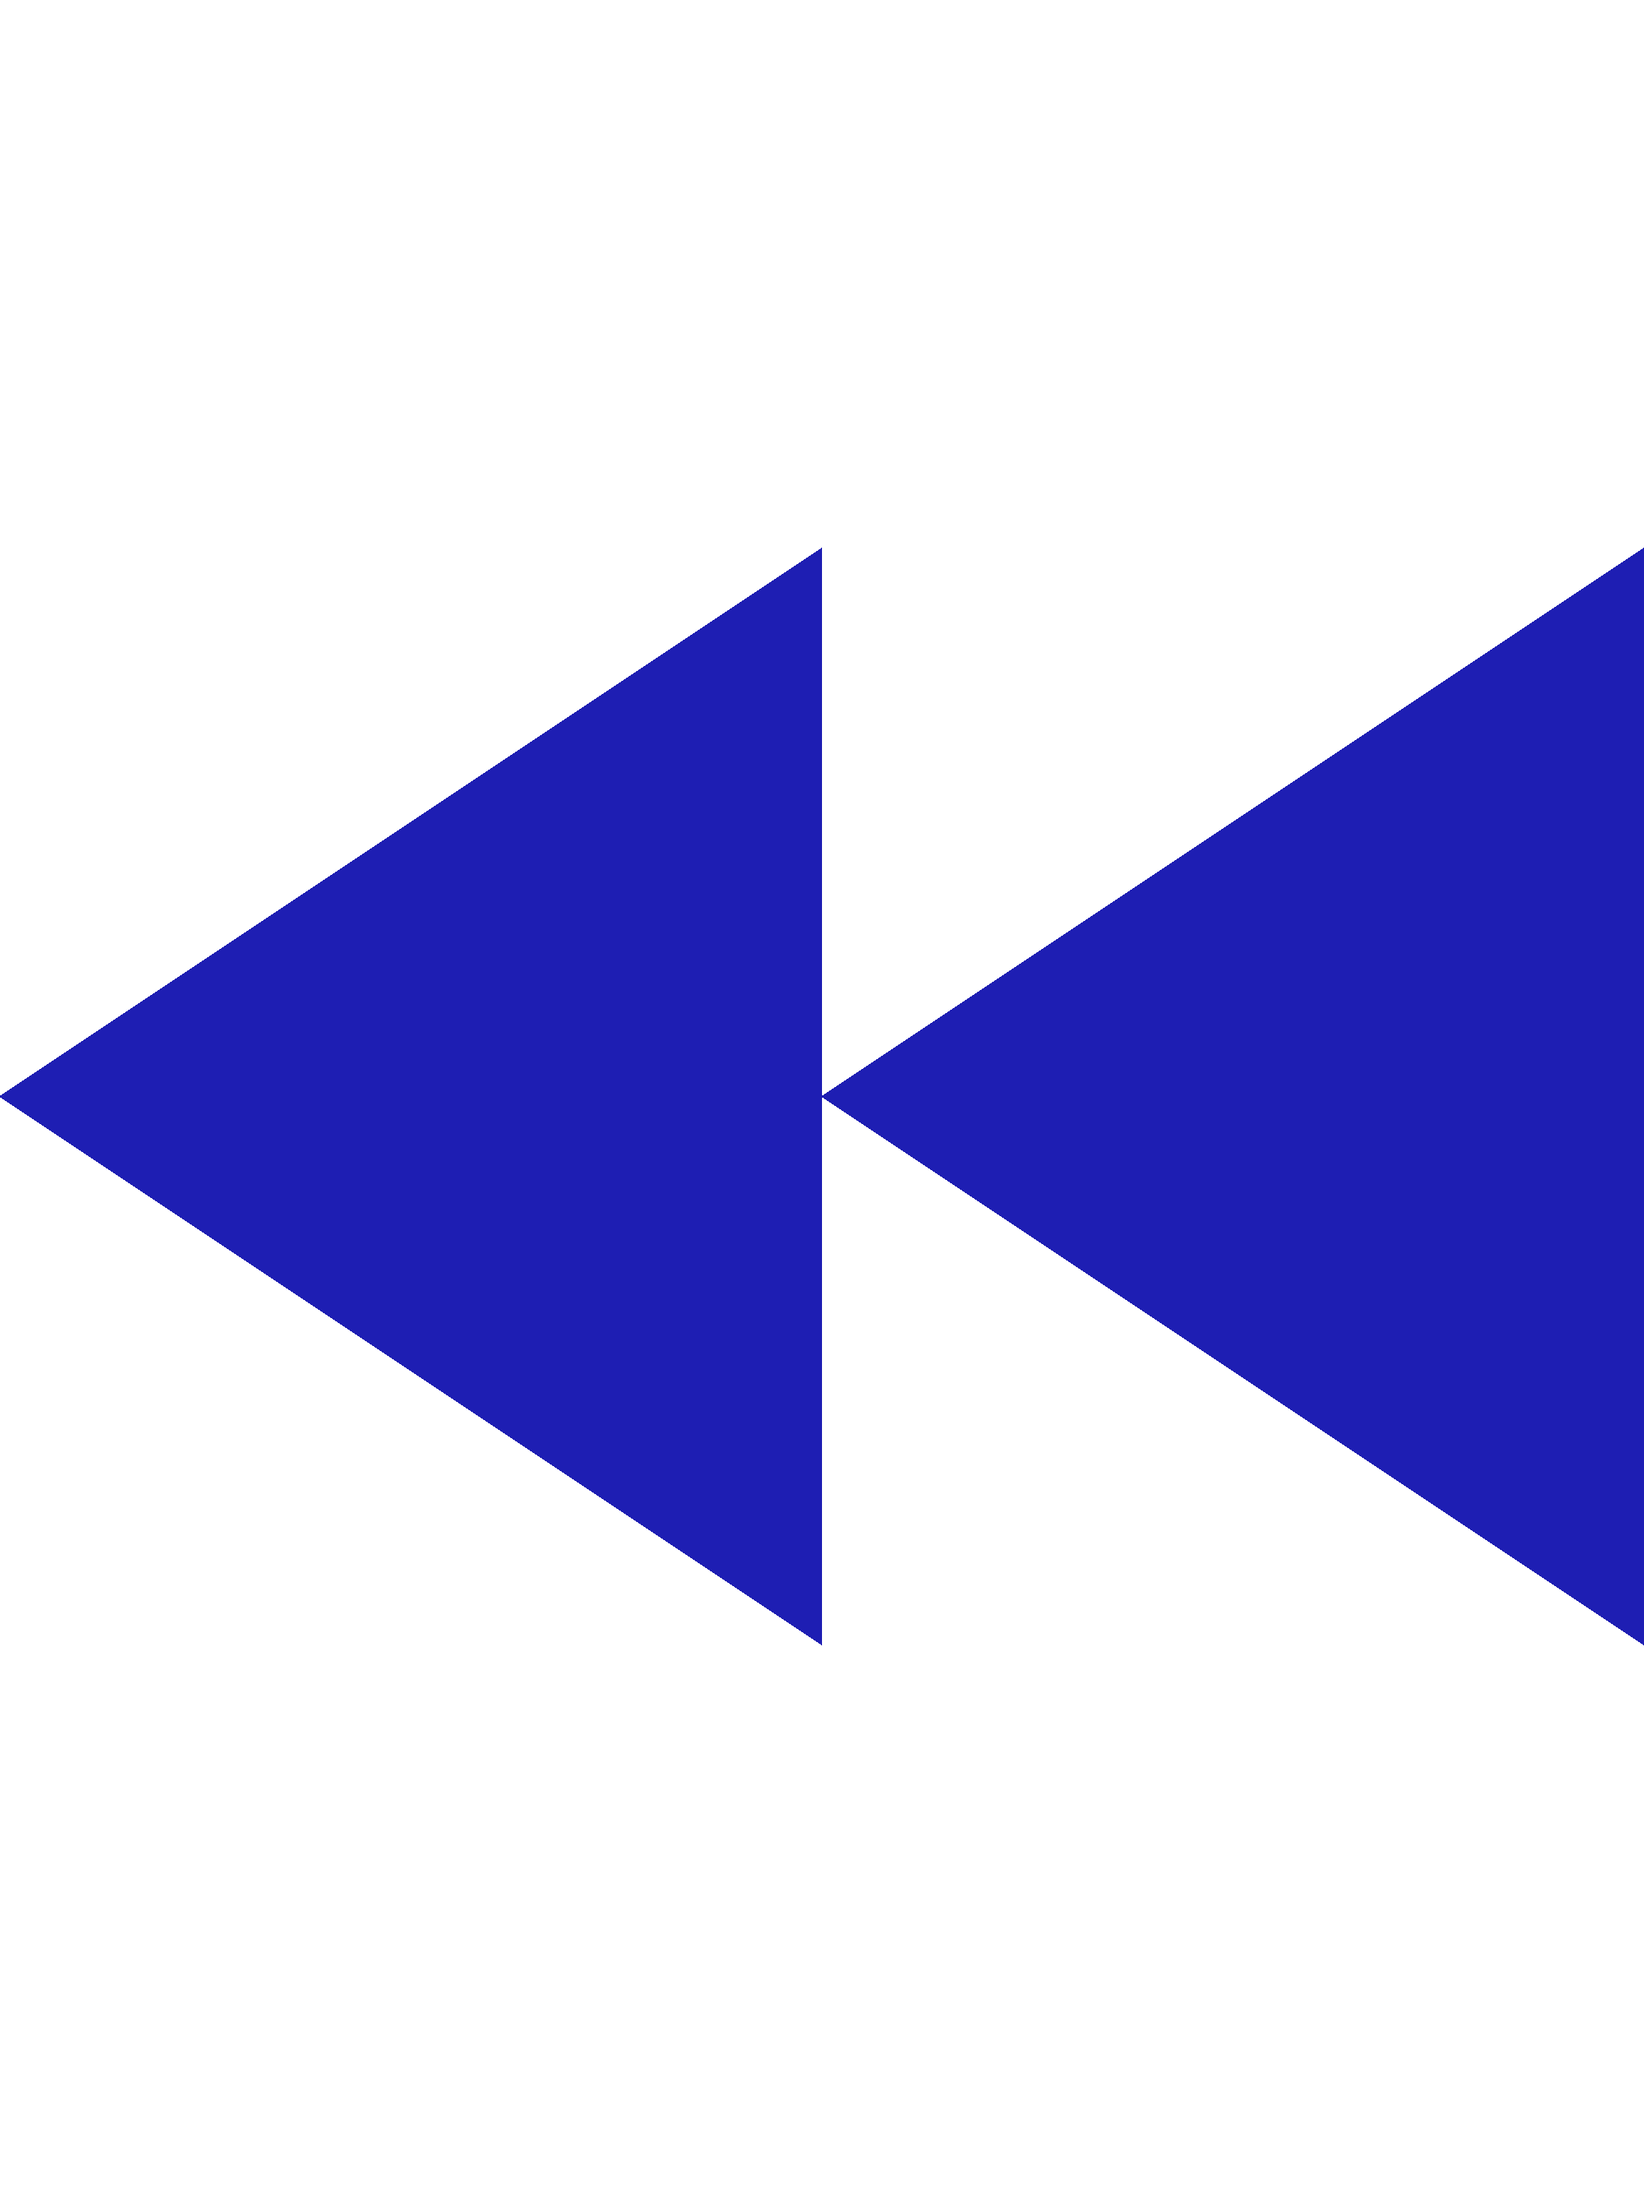
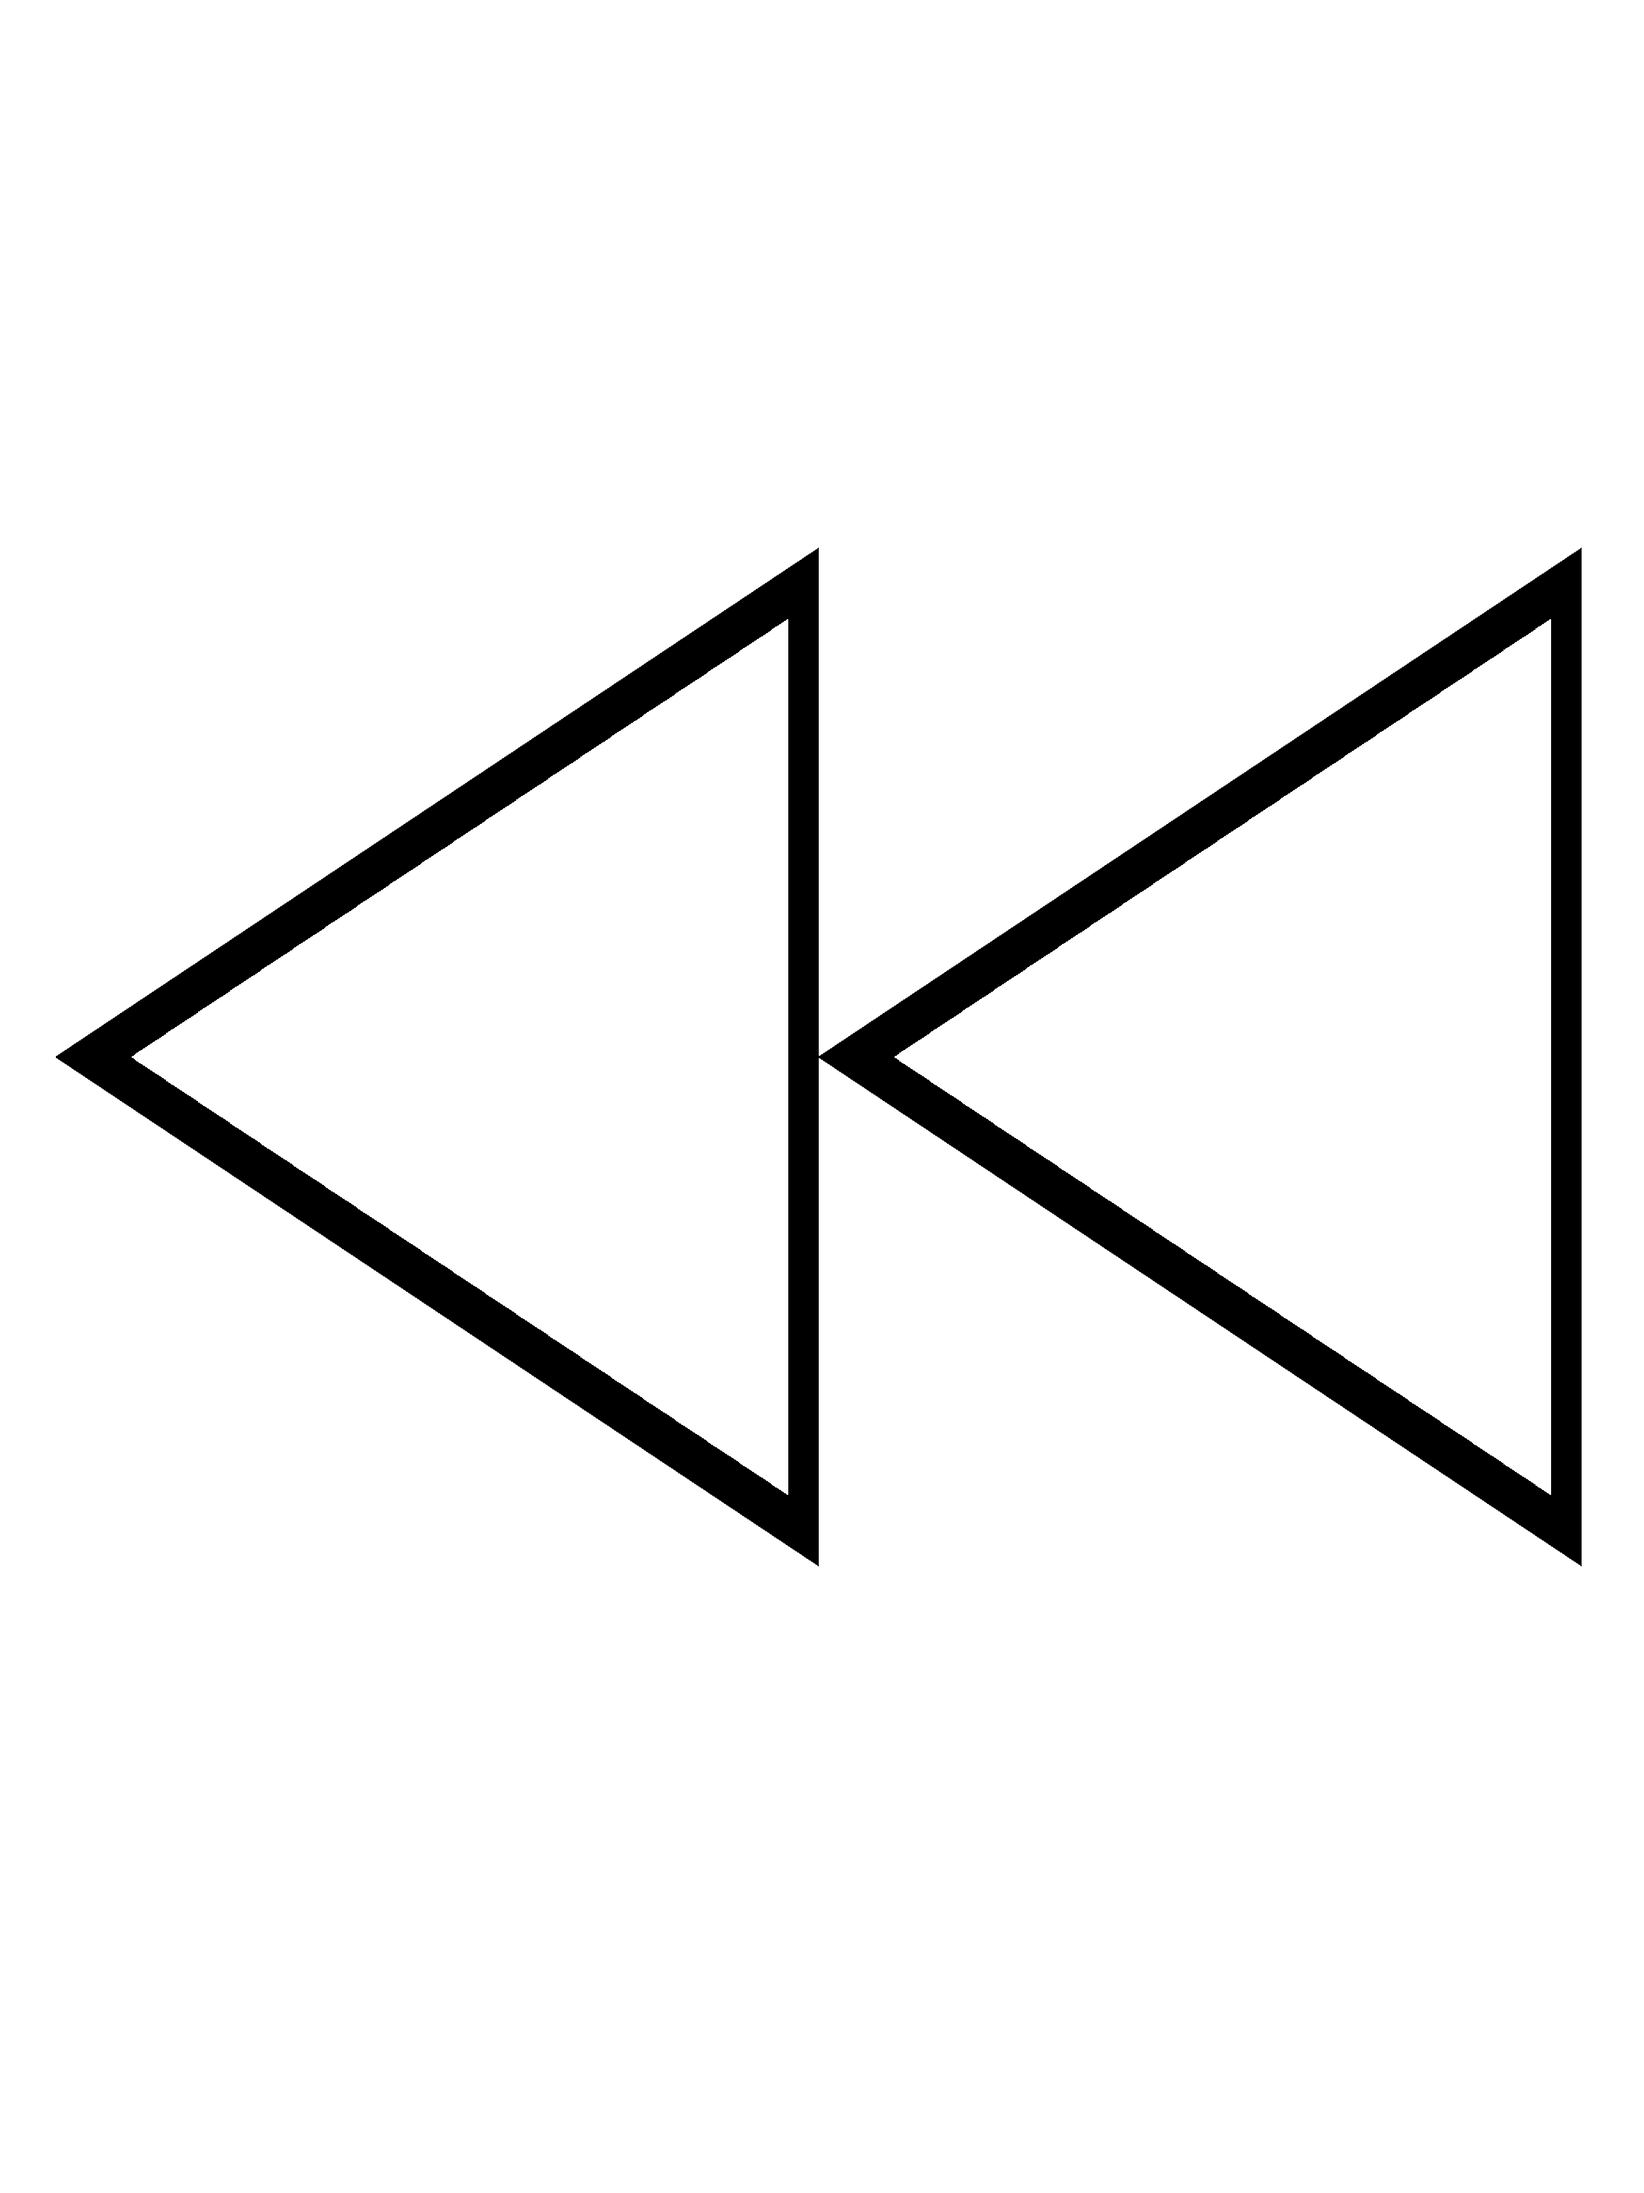
FastForward animation, colored/moved some UI elements

Changed region(s): [[0.0, 0.249, 1.0, 0.7469]]

diff --git a/ChronoLoop/ChronoLoop/Actions/CCEnterLevel.h b/ChronoLoop/ChronoLoop/Actions/CCEnterLevel.h
@@ -58,11 +58,13 @@ namespace Epoch
 					Messager::Instance().SendInMessage(new Message(msgTypes::mSound, soundMsg::ADD_Emitter, 0, false, (void*)new m_Emitter(ambient, "ambiance")));
 
 					//new stuff
-					Transform identity;
-					BaseObject* RightController = Pool::Instance()->iGetObject()->Reset("Controller1 - 0", identity);// new BaseObject("Controller", identity);
-					BaseObject* LeftController = Pool::Instance()->iGetObject()->Reset("Controller2 - 0", identity); //new BaseObject("Controller2", identity);
-					BaseObject* headset = Pool::Instance()->iGetObject()->Reset("Headset - 0", identity); //new BaseObject("headset", transform);
+					Transform identity, t;
+					t.SetMatrix(matrix4::CreateXRotation(DirectX::XM_PI / 2) * matrix4::CreateTranslation(8.8f, 1.3f, -4.75f));
+					BaseObject* RightController = Pool::Instance()->iGetObject()->Reset("Controller1 - 0", t);
+					BaseObject* LeftController = Pool::Instance()->iGetObject()->Reset("Controller2 - 0", identity); 
+					BaseObject* headset = Pool::Instance()->iGetObject()->Reset("Headset - 0", identity);
 					MeshComponent *mc = new MeshComponent("../Resources/Controller.obj");
+
 					ControllerCollider* rightConCol = new ControllerCollider(RightController, vec3f(-0.15f, -0.15f, -0.15f), vec3f(0.15f, 0.15f, 0.15f), false);
 					BoxSnapToControllerAction* pickup = new BoxSnapToControllerAction();
 					((BoxSnapToControllerAction*)pickup)->mControllerRole = eControllerType_Primary;
@@ -87,7 +89,6 @@ namespace Epoch
 					clonePanel->SetParent(RightController);
 					RightController->AddChild(clonePanel);
 
-					Transform t;
 					t.SetMatrix(matrix4::CreateScale(.1f, .1f, .1f));
 					BaseObject *timeDisplay = Pool::Instance()->iGetObject()->Reset("TimeIndicatorLine", t);
 					MeshComponent* tdisp = new MeshComponent("../Resources/TimeIndicatorLine.obj");
@@ -134,14 +135,6 @@ namespace Epoch
 					rewindHelp->SetParent(RightController);
 					RightController->AddChild(rewindHelp);
 
-					//t.SetMatrix(matrix4::CreateTranslation(0, 0.015f, 0.054f));
-					//BaseObject *playHelp = Pool::Instance()->iGetObject()->Reset("playHelp", t);
-					//MeshComponent* plhdisp = new MeshComponent("../Resources/help.obj");
-					//plhdisp->AddTexture("../Resources/play.png", eTEX_DIFFUSE);
-					//playHelp->AddComponent(plhdisp);
-					//playHelp->SetParent(RightController);
-					//RightController->AddChild(playHelp);
-
 					t.SetMatrix(matrix4::CreateTranslation(0, 0.015f, 0.054f));
 					BaseObject *teleportHelp = Pool::Instance()->iGetObject()->Reset("teleportHelp", t);
 					MeshComponent* thdisp = new MeshComponent("../Resources/help.obj");
@@ -152,7 +145,7 @@ namespace Epoch
 					teleportHelp->SetParent(RightController);
 					RightController->AddChild(teleportHelp);
 
-					t.SetMatrix(matrix4::CreateTranslation(-0.039f, -0.007f, 0.089f));
+					t.SetMatrix(matrix4::CreateTranslation(-0.03f, -0.01f, 0.089f));
 					BaseObject *pauseHelp = Pool::Instance()->iGetObject()->Reset("pauseHelp", t);
 					MeshComponent* phdisp = new MeshComponent("../Resources/help.obj");
 					phdisp->AddTexture("../Resources/pause.png", eTEX_DIFFUSE);
@@ -162,15 +155,7 @@ namespace Epoch
 					pauseHelp->SetParent(RightController);
 					RightController->AddChild(pauseHelp);
 					
-					//t.SetMatrix(matrix4::CreateTranslation(-0.039f, -0.007f, 0.089f));
-					//BaseObject *cancelHelp = Pool::Instance()->iGetObject()->Reset("cancelHelp", t);
-					//MeshComponent* cahdisp = new MeshComponent("../Resources/help.obj");
-					//cahdisp->AddTexture("../Resources/cancel.png", eTEX_DIFFUSE);
-					//cancelHelp->AddComponent(cahdisp);
-					//cancelHelp->SetParent(RightController);
-					//RightController->AddChild(cancelHelp);
-
-					t.SetMatrix(matrix4::CreateTranslation(0.042f, -0.03f, 0.047f));
+					t.SetMatrix(matrix4::CreateTranslation(0.032f, -0.03f, 0.047f));
 					BaseObject *cloneHelp = Pool::Instance()->iGetObject()->Reset("cloneHelp", t);
 					MeshComponent* chdisp = new MeshComponent("../Resources/help.obj");
 					chdisp->AddTexture("../Resources/clone.png", eTEX_DIFFUSE);
@@ -179,6 +164,16 @@ namespace Epoch
 					cloneHelp->AddComponent(chdisp);
 					cloneHelp->SetParent(RightController);
 					RightController->AddChild(cloneHelp);
+
+					t.SetMatrix(matrix4::CreateScale(.5f, .5f, .5f) * matrix4::CreateTranslation(0.042f, -0.03f, 0.047f));
+					BaseObject *clonePlus = Pool::Instance()->iGetObject()->Reset("clonePlus", t);
+					MeshComponent* cphdisp = new MeshComponent("../Resources/help.obj");
+					cphdisp->AddTexture("../Resources/plus.png", eTEX_DIFFUSE);
+					CCDisplayOnPause* cpdop = new CCDisplayOnPause();
+					clonePlus->AddComponent(cpdop);
+					clonePlus->AddComponent(cphdisp);
+					clonePlus->SetParent(RightController);
+					RightController->AddChild(clonePlus);
 
 					//pat added
 					MeshComponent *mc2 = new MeshComponent("../Resources/Controller.obj");
@@ -249,8 +244,7 @@ namespace Epoch
 					next->AddObject(pauseHelp);
 					next->AddObject(cloneHelp);
 					next->AddObject(teleportHelp);
-					//next->AddObject(playHelp);
-					//next->AddObject(cancelHelp);
+					next->AddObject(clonePlus);
 					
 					TimeManager::Instance()->AddObjectToTimeline(RightController);
 					TimeManager::Instance()->AddObjectToTimeline(LeftController);

diff --git a/ChronoLoop/ChronoLoop/Actions/UIRewind.h b/ChronoLoop/ChronoLoop/Actions/UIRewind.h
@@ -10,10 +10,28 @@ namespace Epoch
 
 	struct UIRewind : public CodeComponent
 	{
+		bool once = false;
 		virtual void Update()
 		{
-			if (VRInputManager::GetInstance().GetController(ControllerType::eControllerType_Primary).CheckGesture() == -1)
-				mObject->GetTransform().SetMatrix(mObject->GetTransform().GetMatrix().RotateInPlace(vec3f(0,1,0), 0.261799f));
+			if (/*VRInputManager::GetInstance().GetController(ControllerType::eControllerType_Primary).CheckGesture() == -1*/ GetAsyncKeyState(VK_LEFT) & 1)
+			{
+				if (!once)
+				{
+					once = true;
+					((MeshComponent*)mObject->GetComponentIndexed(eCOMPONENT_MESH, 0))->AddTexture("../Resources/rewind.png", eTEX_DIFFUSE);
+				}
+				mObject->GetTransform().SetMatrix(mObject->GetTransform().GetMatrix().RotateInPlace(vec3f(0, 1, 0), 0.261799f));
+				
+			}
+			else if (/*VRInputManager::GetInstance().GetController(ControllerType::eControllerType_Primary).CheckGesture() == 1*/GetAsyncKeyState(VK_RIGHT) & 1)
+			{
+				if (once)
+				{
+					once = false;
+					((MeshComponent*)mObject->GetComponentIndexed(eCOMPONENT_MESH, 0))->AddTexture("../Resources/fastForward.png", eTEX_DIFFUSE);
+				}
+				mObject->GetTransform().SetMatrix(mObject->GetTransform().GetMatrix().RotateInPlace(vec3f(0, 1, 0), -0.261799f));
+			}
 		}
 	};
 

diff --git a/ChronoLoop/ChronoLoop/Actions/CCDisplayOnPause.h b/ChronoLoop/ChronoLoop/Actions/CCDisplayOnPause.h
@@ -12,7 +12,7 @@ namespace Epoch
 		bool once = false;
 		virtual void Update()
 		{
-			if (LevelManager::GetInstance().GetCurrentLevel()->GetRightTimeManipulator()->isTimePaused())
+			if (/*LevelManager::GetInstance().GetCurrentLevel()->GetRightTimeManipulator()->isTimePaused()*/ (GetAsyncKeyState(VK_SHIFT)))
 			{
 				((MeshComponent*)mObject->GetComponentIndexed(eCOMPONENT_MESH, 0))->SetVisible(true);
 				once = false;
@@ -22,9 +22,7 @@ namespace Epoch
 				once = true;
 				((MeshComponent*)mObject->GetComponentIndexed(eCOMPONENT_MESH, 0))->SetVisible(false);
 			}
-
 		}
-
 	};
 
 }

diff --git a/ChronoLoop/ChronoLoop/Physics/Physics.cpp b/ChronoLoop/ChronoLoop/Physics/Physics.cpp
@@ -1013,7 +1013,7 @@ namespace Epoch
 							}
 						}
 					}
-					else if (collider->mColliderType == Collider::eCOLLIDER_Controller)//Update ControllerCollider position, do not apply physics to player
+					else if (collider->mColliderType == Collider::eCOLLIDER_Controller && VRInputManager::GetInstance().IsVREnabled())//Update ControllerCollider position, do not apply physics to player
 					{
 						CubeCollider* aabb1 = (CubeCollider*)collider;
 						for (int j = 0; j < objs; ++j)

diff --git a/ChronoLoop/ChronoLoop/Actions/CCPauseToCancel.h b/ChronoLoop/ChronoLoop/Actions/CCPauseToCancel.h
@@ -12,7 +12,7 @@ namespace Epoch
 		bool once = false;
 		virtual void Update()
 		{
-			if (LevelManager::GetInstance().GetCurrentLevel()->GetRightTimeManipulator()->isTimePaused())
+			if (/*LevelManager::GetInstance().GetCurrentLevel()->GetRightTimeManipulator()->isTimePaused()*/ (GetAsyncKeyState(VK_SHIFT)))
 			{
 				((MeshComponent*)mObject->GetComponentIndexed(eCOMPONENT_MESH, 0))->AddTexture("../Resources/cancel.png", eTEX_DIFFUSE);
 				once = false;

diff --git a/ChronoLoop/ChronoLoop/Actions/CCTeleToPlay.h b/ChronoLoop/ChronoLoop/Actions/CCTeleToPlay.h
@@ -12,7 +12,7 @@ namespace Epoch
 		bool once = false;
 		virtual void Update()
 		{
-			if (LevelManager::GetInstance().GetCurrentLevel()->GetRightTimeManipulator()->isTimePaused())
+			if (/*LevelManager::GetInstance().GetCurrentLevel()->GetRightTimeManipulator()->isTimePaused()*/ (GetAsyncKeyState(VK_SHIFT)))
 			{
 				((MeshComponent*)mObject->GetComponentIndexed(eCOMPONENT_MESH, 0))->AddTexture("../Resources/play.png", eTEX_DIFFUSE);
 				once = false;

diff --git a/ChronoLoop/ChronoLoop/Core/Level.cpp b/ChronoLoop/ChronoLoop/Core/Level.cpp
@@ -646,7 +646,7 @@ namespace Epoch {
 					else if (colliderType == "Plane")
 					{
 						physical = true;
-
+						
 						PlaneCollider* col = new PlaneCollider(obj, trigger, staticF, kineticF, fabsf((colliderPosition + position) * normal), normal);//TODO: Fix offset
 						obj->AddComponent(col);
 					}

diff --git a/ChronoLoop/ChronoLoop/Actions/UICreateToDeleteClone.h b/ChronoLoop/ChronoLoop/Actions/UICreateToDeleteClone.h
@@ -1,0 +1,15 @@
+#pragma once
+#include "CodeComponent.hpp"
+
+namespace Epoch
+{
+
+	struct UICreateToDeleteClone : public CodeComponent
+	{
+		virtual void Update()
+		{
+
+		}
+	};
+
+}
